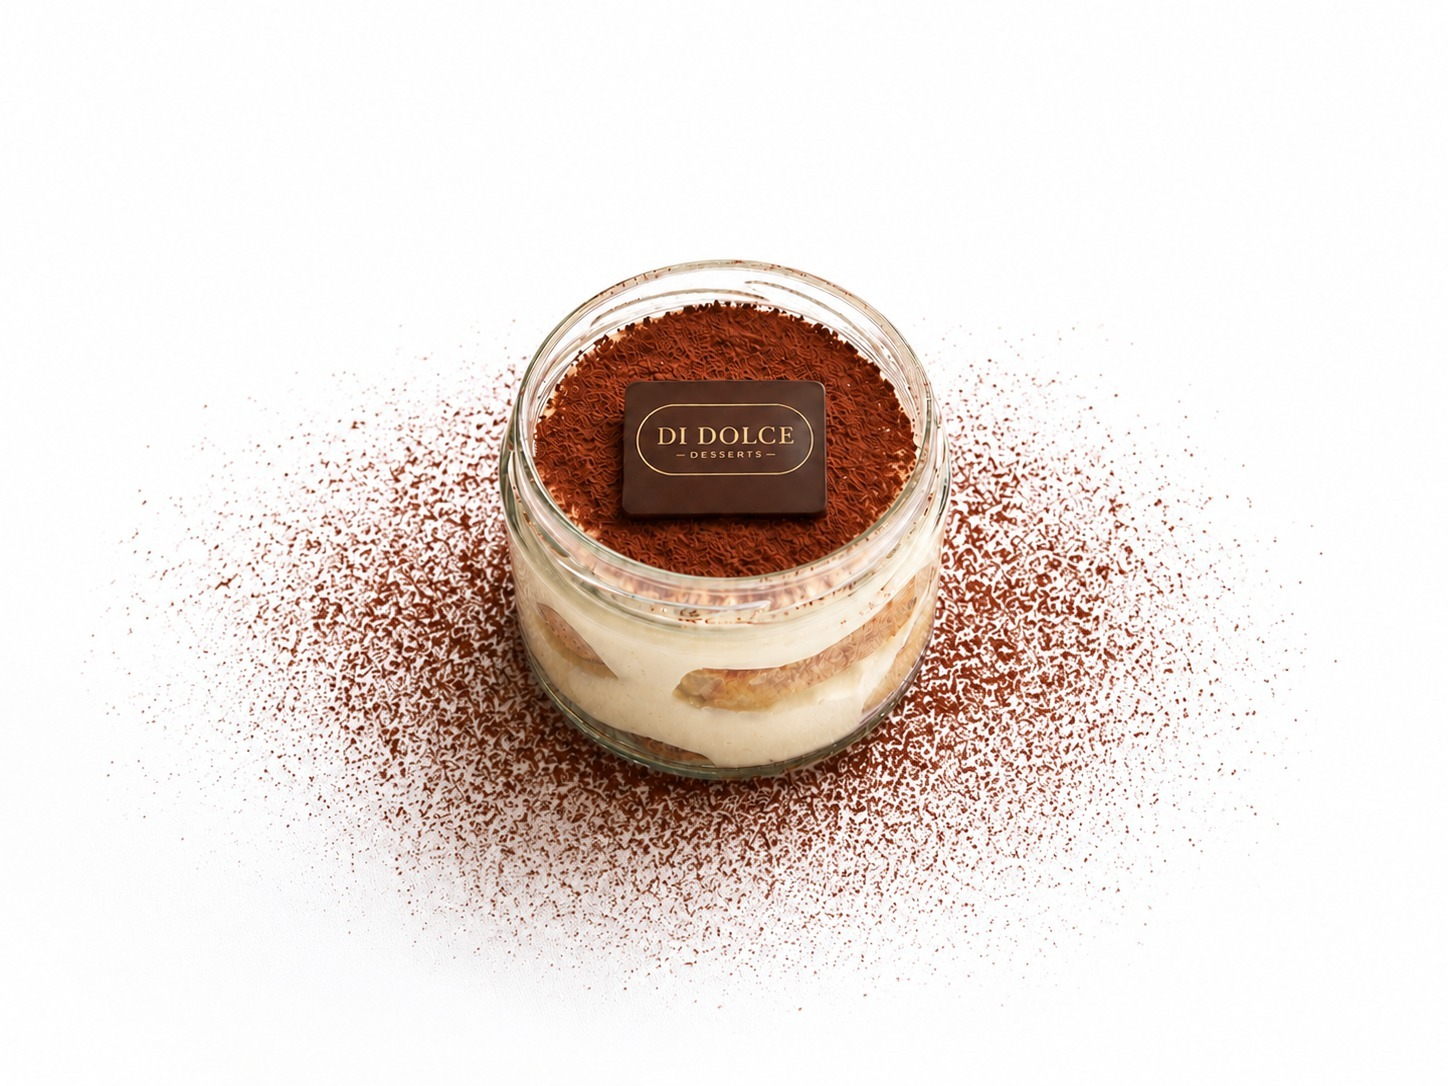
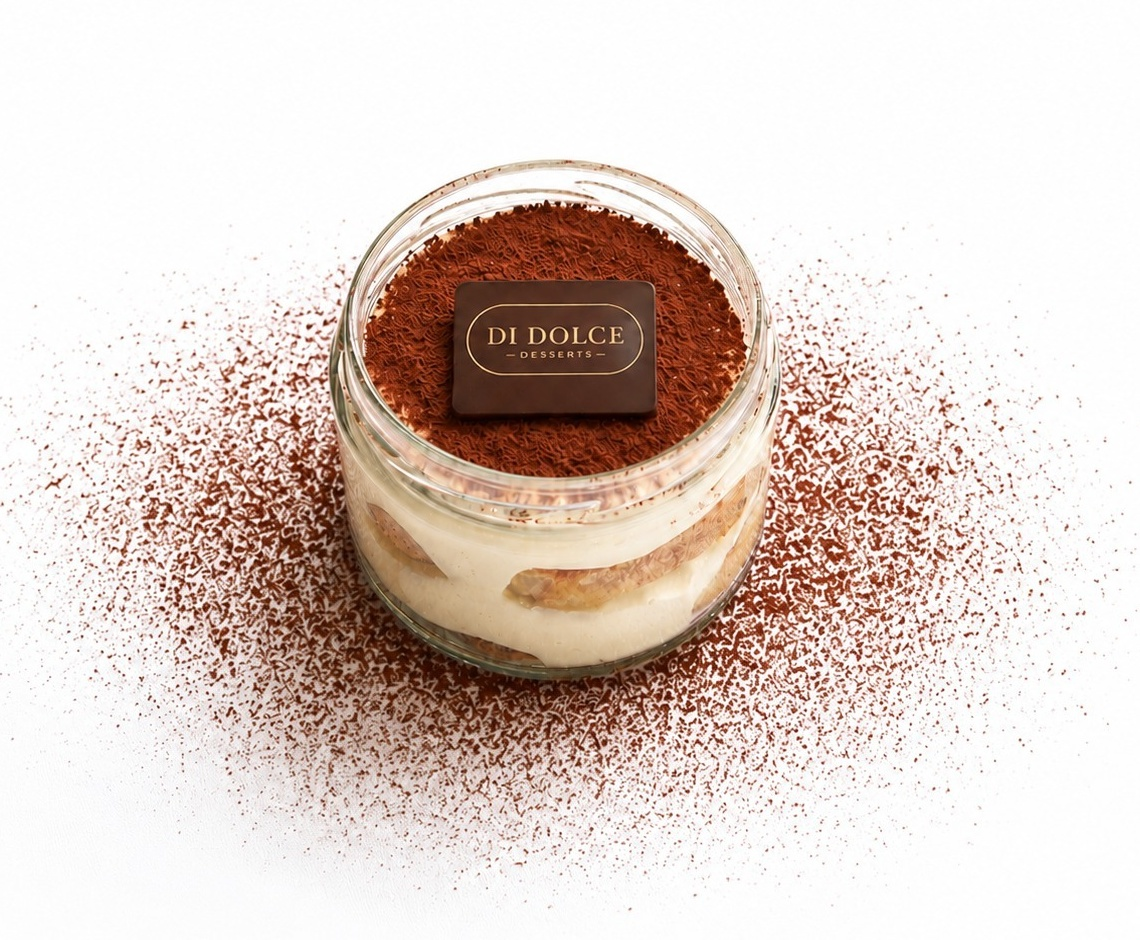
V6 : ajustements visuels post-retour client
- Image "Notre Tiramisù" recadrée (poudre remplit le cadre) et agrandie
- Page Contact passée en fond beige (cohérent avec Marque privée)
- Carrousel "Nos collections" (gammes) compacté, aligné à gauche : les
  6 gammes visibles sans défilement sur desktop
- Image de partage (OG) : logo Di Dolce sur fond crème + titre
  "L'excellence du dessert"

Changed region(s): [[0.0, 0.1543, 0.9211, 0.9255]]

diff --git a/assets/style.css b/assets/style.css
@@ -59,7 +59,10 @@ h3.display{font-size:clamp(1.6rem,2.6vw,2.2rem)}
 .wrap{width:100%;max-width:var(--container);margin-inline:auto;padding-inline:var(--pad)}
 .section{padding-block:var(--sect);position:relative}
 
-/* dark chapters */
+/* dark chapters — NB : .contact ici ne vise QUE la section-teaser "Contact" de la home
+   (index.html, id="contact", fond volontairement sombre). La page contact.html a sa propre
+   section .contact-page (claire, voir bloc CONTACT plus bas) — les deux ne partagent plus
+   la même classe depuis la V6, pour pouvoir les thématiser indépendamment. */
 .quote,.contact,.footer{background:var(--ink);color:var(--cream)}
 .quote .sec-index,.contact .sec-index{color:var(--gold-l)}
 .contact .lead{color:var(--muted-d)}
@@ -256,10 +259,16 @@ h3.display{font-size:clamp(1.6rem,2.6vw,2.2rem)}
   .fl-name{font-size:1rem}
 }
 
-/* --- NOS COLLECTIONS — variante "format paysage" du carrousel .fl-row (6 gammes) --- */
-.gm-row .fl-card{width:min(78vw,440px)}
-.gm-row .fl-box{aspect-ratio:4/3;border-radius:20px;margin-bottom:1rem}
-.gm-row .fl-name{font-size:1.05rem;letter-spacing:.06em;text-transform:uppercase}
+/* --- NOS COLLECTIONS — variante "format paysage" du carrousel .fl-row (6 gammes) ---
+   Cartes réduites (78vw/440px → 30vw/155px) pour que les 6 gammes tiennent sur une seule
+   ligne sans swipe dès ~1280px de large (container 1280px + paddings cumulés .wrap/.fl-row
+   + gap 1.4rem×5 ≈ 1088px dispo pour les cartes → ~162px max théorique/carte, 155px retenu
+   pour garder un peu d'air). Alignement à gauche = comportement flex par défaut (.fl-row n'a
+   pas de justify-content), explicité ici pour verrouiller l'intention. */
+.gm-row{justify-content:flex-start}
+.gm-row .fl-card{width:min(30vw,155px)}
+.gm-row .fl-box{aspect-ratio:4/3;border-radius:12px;margin-bottom:.6rem}
+.gm-row .fl-name{font-size:.8rem;letter-spacing:.05em;text-transform:uppercase}
 
 /* =========================================================================
    03 — ENGAGEMENT
@@ -281,7 +290,7 @@ h3.display{font-size:clamp(1.6rem,2.6vw,2.2rem)}
 .tiramisu-intro{background:var(--white,#fff);padding-block:clamp(3.5rem,8vw,7rem)}
 .tiramisu-intro .wrap{max-width:1000px}
 .ti-imgwrap{display:flex;justify-content:center;margin-bottom:clamp(2.5rem,6vw,4rem)}
-.ti-imgwrap img{width:min(100%,620px);height:auto;display:block}
+.ti-imgwrap img{width:min(100%,760px);height:auto;display:block}
 .ti-media-glow{display:none}
 .ti-content h2{margin-bottom:1.6rem}
 .ti-copy p{color:var(--muted-l);font-size:1.05rem;line-height:1.65;margin-bottom:1.4rem}
@@ -348,7 +357,7 @@ h3.display{font-size:clamp(1.6rem,2.6vw,2.2rem)}
 .contact-list--row{display:grid;grid-template-columns:1fr;gap:0;text-align:left;margin-top:2.6rem}
 .contact-list--row li{border-top:1px solid var(--line-d)}
 .contact-split{display:grid;grid-template-columns:1fr;gap:2rem;align-items:stretch;margin-top:clamp(2.6rem,5vw,4rem)}
-.contact-split .map-frame{margin-top:0;aspect-ratio:auto;min-height:380px;border-color:var(--line-d)}
+.contact-split .map-frame{margin-top:0;aspect-ratio:auto;min-height:380px;border-color:var(--line-l)}
 @media (min-width:900px){
   .contact-list--row{grid-template-columns:repeat(2,1fr);column-gap:2.5rem}
   .contact-split{grid-template-columns:1fr 1fr;gap:clamp(2rem,4vw,3rem)}

diff --git a/index.html b/index.html
@@ -8,14 +8,14 @@
   <meta name="theme-color" content="#17120e" />
   <link rel="icon" href="assets/img/logo.svg" />
   <meta property="og:type" content="website" />
-  <meta property="og:title" content="Di Dolce Desserts — Desserts premium 100% Halal" />
+  <meta property="og:title" content="Di Dolce Desserts — L'excellence du dessert" />
   <meta property="og:description" content="La carte des desserts italiens premium, 100% Halal, livrés en 24/48h partout en France." />
-  <meta property="og:image" content="assets/img/hero.jpg" />
+  <meta property="og:image" content="assets/img/og-logo.jpg" />
 
   <link rel="preconnect" href="https://fonts.googleapis.com" />
   <link rel="preconnect" href="https://fonts.gstatic.com" crossorigin />
   <link href="https://fonts.googleapis.com/css2?family=Fraunces:ital,opsz,wght@0,9..144,300..900;1,9..144,300..600&family=Jost:wght@300;400;500;600;700&display=swap" rel="stylesheet" />
-  <link rel="stylesheet" href="assets/style.css?v=44" />
+  <link rel="stylesheet" href="assets/style.css?v=46" />
 </head>
 <body>
   <script>

diff --git a/contact.html b/contact.html
@@ -15,7 +15,7 @@
   <link rel="preconnect" href="https://fonts.googleapis.com" />
   <link rel="preconnect" href="https://fonts.gstatic.com" crossorigin />
   <link href="https://fonts.googleapis.com/css2?family=Fraunces:ital,opsz,wght@0,9..144,300..900;1,9..144,300..600&family=Jost:wght@300;400;500;600;700&display=swap" rel="stylesheet" />
-  <link rel="stylesheet" href="assets/style.css?v=44" />
+  <link rel="stylesheet" href="assets/style.css?v=46" />
 </head>
 <body>
   <script>
@@ -91,7 +91,7 @@
 
   <main id="accueil">
 
-    <section class="section contact">
+    <section class="section contact-page">
       <div class="wrap contact-intro">
         <p class="sec-index reveal-fade">Contact</p>
         <h1 class="display reveal-lines">Parlons de votre offre dessert</h1>

diff --git a/about.html b/about.html
@@ -15,7 +15,7 @@
   <link rel="preconnect" href="https://fonts.googleapis.com" />
   <link rel="preconnect" href="https://fonts.gstatic.com" crossorigin />
   <link href="https://fonts.googleapis.com/css2?family=Fraunces:ital,opsz,wght@0,9..144,300..900;1,9..144,300..600&family=Jost:wght@300;400;500;600;700&display=swap" rel="stylesheet" />
-  <link rel="stylesheet" href="assets/style.css?v=44" />
+  <link rel="stylesheet" href="assets/style.css?v=46" />
 </head>
 <body>
   <script>

diff --git a/catalogue.html b/catalogue.html
@@ -15,7 +15,7 @@
   <link rel="preconnect" href="https://fonts.googleapis.com" />
   <link rel="preconnect" href="https://fonts.gstatic.com" crossorigin />
   <link href="https://fonts.googleapis.com/css2?family=Fraunces:ital,opsz,wght@0,9..144,300..900;1,9..144,300..600&family=Jost:wght@300;400;500;600;700&display=swap" rel="stylesheet" />
-  <link rel="stylesheet" href="assets/style.css?v=44" />
+  <link rel="stylesheet" href="assets/style.css?v=46" />
 </head>
 <body>
   <script>

diff --git a/desserts.html b/desserts.html
@@ -15,7 +15,7 @@
   <link rel="preconnect" href="https://fonts.googleapis.com" />
   <link rel="preconnect" href="https://fonts.gstatic.com" crossorigin />
   <link href="https://fonts.googleapis.com/css2?family=Fraunces:ital,opsz,wght@0,9..144,300..900;1,9..144,300..600&family=Jost:wght@300;400;500;600;700&display=swap" rel="stylesheet" />
-  <link rel="stylesheet" href="assets/style.css?v=44" />
+  <link rel="stylesheet" href="assets/style.css?v=46" />
 </head>
 <body>
   <script>

diff --git a/marque-privee.html b/marque-privee.html
@@ -15,7 +15,7 @@
   <link rel="preconnect" href="https://fonts.googleapis.com" />
   <link rel="preconnect" href="https://fonts.gstatic.com" crossorigin />
   <link href="https://fonts.googleapis.com/css2?family=Fraunces:ital,opsz,wght@0,9..144,300..900;1,9..144,300..600&family=Jost:wght@300;400;500;600;700&display=swap" rel="stylesheet" />
-  <link rel="stylesheet" href="assets/style.css?v=44" />
+  <link rel="stylesheet" href="assets/style.css?v=46" />
 </head>
 <body>
   <script>

diff --git a/produit-black-forest.html b/produit-black-forest.html
@@ -15,7 +15,7 @@
   <link rel="preconnect" href="https://fonts.googleapis.com" />
   <link rel="preconnect" href="https://fonts.gstatic.com" crossorigin />
   <link href="https://fonts.googleapis.com/css2?family=Fraunces:ital,opsz,wght@0,9..144,300..900;1,9..144,300..600&family=Jost:wght@300;400;500;600;700&display=swap" rel="stylesheet" />
-  <link rel="stylesheet" href="assets/style.css?v=44" />
+  <link rel="stylesheet" href="assets/style.css?v=46" />
 </head>
 <body>
   <script>

diff --git a/produit-cheesecake-fraise.html b/produit-cheesecake-fraise.html
@@ -15,7 +15,7 @@
   <link rel="preconnect" href="https://fonts.googleapis.com" />
   <link rel="preconnect" href="https://fonts.gstatic.com" crossorigin />
   <link href="https://fonts.googleapis.com/css2?family=Fraunces:ital,opsz,wght@0,9..144,300..900;1,9..144,300..600&family=Jost:wght@300;400;500;600;700&display=swap" rel="stylesheet" />
-  <link rel="stylesheet" href="assets/style.css?v=44" />
+  <link rel="stylesheet" href="assets/style.css?v=46" />
 </head>
 <body>
   <script>

diff --git a/produit-cheesecake-mangue-coco.html b/produit-cheesecake-mangue-coco.html
@@ -15,7 +15,7 @@
   <link rel="preconnect" href="https://fonts.googleapis.com" />
   <link rel="preconnect" href="https://fonts.gstatic.com" crossorigin />
   <link href="https://fonts.googleapis.com/css2?family=Fraunces:ital,opsz,wght@0,9..144,300..900;1,9..144,300..600&family=Jost:wght@300;400;500;600;700&display=swap" rel="stylesheet" />
-  <link rel="stylesheet" href="assets/style.css?v=44" />
+  <link rel="stylesheet" href="assets/style.css?v=46" />
 </head>
 <body>
   <script>

diff --git a/produit-cheesecake-speculoos.html b/produit-cheesecake-speculoos.html
@@ -15,7 +15,7 @@
   <link rel="preconnect" href="https://fonts.googleapis.com" />
   <link rel="preconnect" href="https://fonts.gstatic.com" crossorigin />
   <link href="https://fonts.googleapis.com/css2?family=Fraunces:ital,opsz,wght@0,9..144,300..900;1,9..144,300..600&family=Jost:wght@300;400;500;600;700&display=swap" rel="stylesheet" />
-  <link rel="stylesheet" href="assets/style.css?v=44" />
+  <link rel="stylesheet" href="assets/style.css?v=46" />
 </head>
 <body>
   <script>

diff --git a/produit-mousse-au-chocolat.html b/produit-mousse-au-chocolat.html
@@ -15,7 +15,7 @@
   <link rel="preconnect" href="https://fonts.googleapis.com" />
   <link rel="preconnect" href="https://fonts.gstatic.com" crossorigin />
   <link href="https://fonts.googleapis.com/css2?family=Fraunces:ital,opsz,wght@0,9..144,300..900;1,9..144,300..600&family=Jost:wght@300;400;500;600;700&display=swap" rel="stylesheet" />
-  <link rel="stylesheet" href="assets/style.css?v=44" />
+  <link rel="stylesheet" href="assets/style.css?v=46" />
 </head>
 <body>
   <script>
